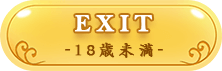
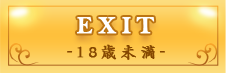
s s
s s

diff --git a/css/18.css b/css/18.css
@@ -23,7 +23,7 @@ a{
 }
 .tele{
     width: 529px;
-    height: 124px;
+    height: 115px;
     background-image: url(../img/tel.png);
 }
 .tel{
@@ -60,18 +60,16 @@ a{
     text-align:center;
     display: table-cell;
     vertical-align:middle;
-    border-radius: 20px;
     background: url(../img/18a.png)
 }
 .a18x2{
-    width: 221px;
+    width: 225px;
     height: 71px;
     font-size: 20px;
     color: #ffffff;
     text-align:center;
     display: table-cell;
     vertical-align:middle;
-    border-radius: 20px;
     background: url(../img/18b.png)
 }
 .a18x a p{
